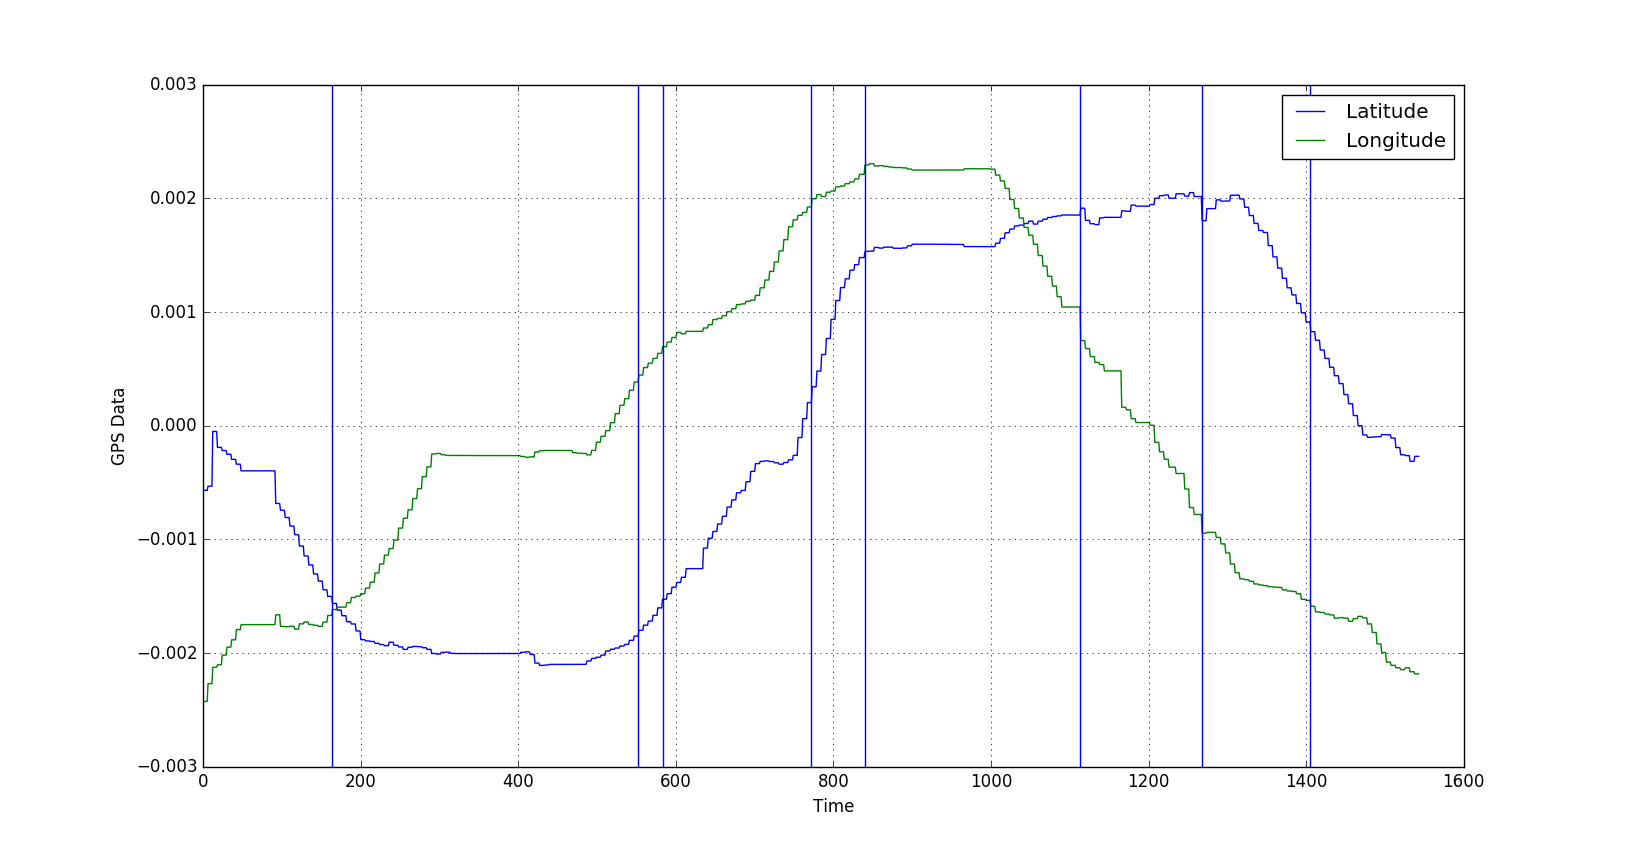
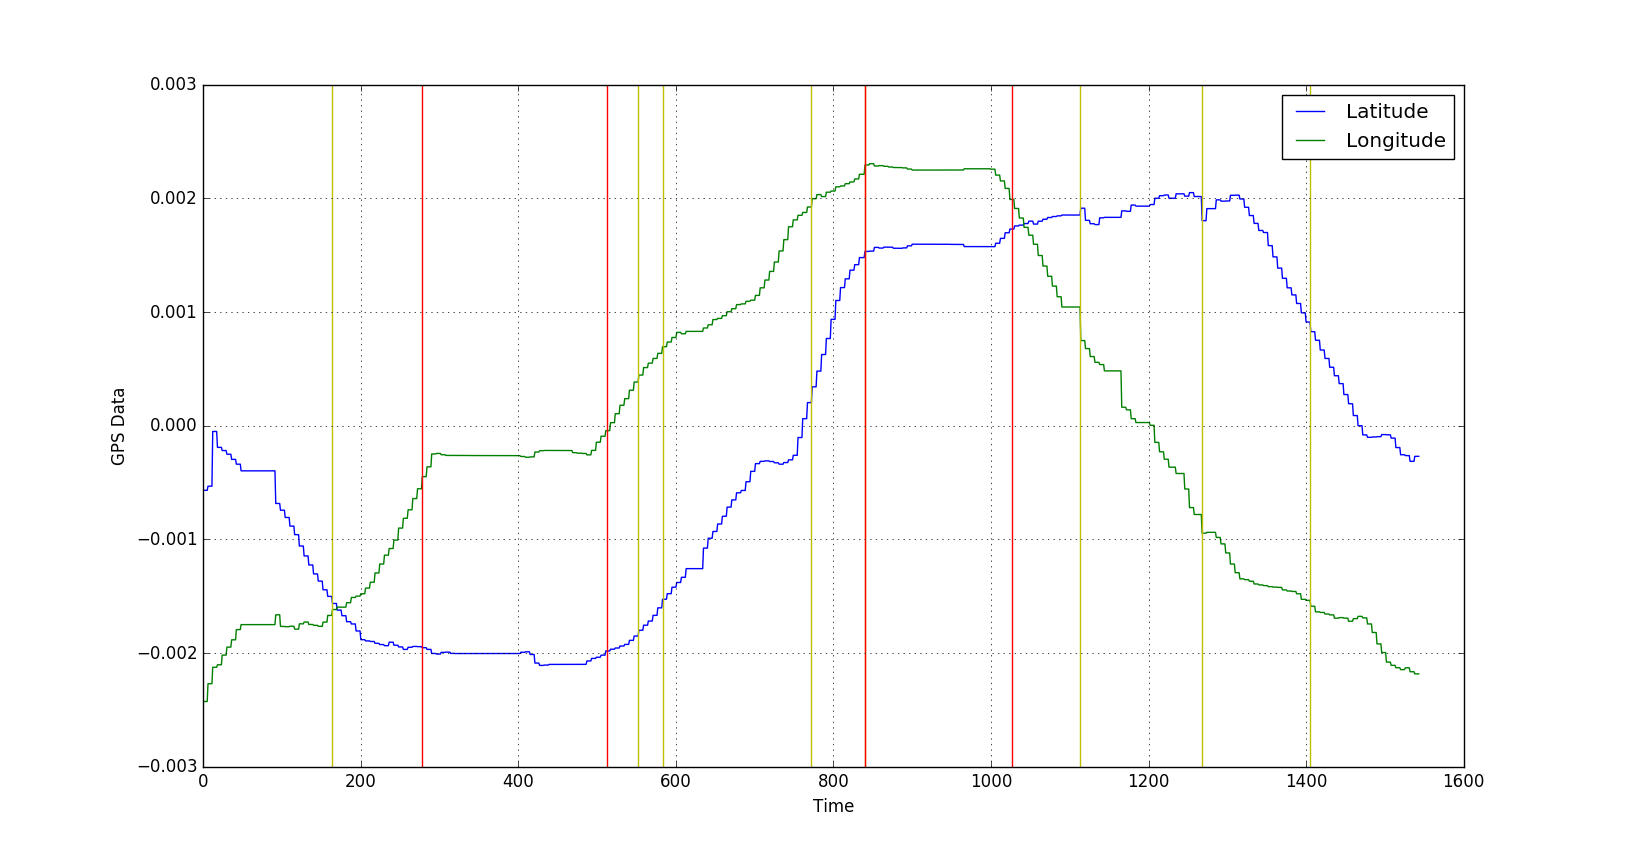
Identify GPS stationary location accurately. Yellow is lose limit. Red is hard limit.

Changed region(s): [[0.369, 0.1221, 0.3998, 0.885]]

diff --git a/Code/findStationary.py b/Code/findStationary.py
@@ -2,25 +2,27 @@ import numpy as np
 import sys
 import matplotlib.pyplot as plt
 
-threshold = 0.00005
+gpsValThreshold = 0.00005
+stationaryTimeThreshold = 100
 stationaryLimit = []
+secondFilterFlag = 0
+secondFilterList = []
+stdThreshold = 0.00005
 
 def identify_stationary(newMat):
 	stationaryFlag = 0
 	for time in range(0,newMat.shape[0]-1):	
 		print (newMat[time][1] - newMat[time+1][1])
 		print (newMat[time][2] - newMat[time+1][2])
-		print abs(threshold)
-		if (abs(newMat[time][1] - newMat[time+1][1]) <= abs(threshold)) and (abs(newMat[time][2] - newMat[time+1][2]) <= abs(threshold)) and stationaryFlag == 0:
+		print abs(gpsValThreshold)
+		if (abs(newMat[time][1] - newMat[time+1][1]) <= abs(gpsValThreshold)) and (abs(newMat[time][2] - newMat[time+1][2]) <= abs(gpsValThreshold)) and stationaryFlag == 0:
 			stationaryLimit.append(time)
 			stationaryFlag = 1
-		if (abs(newMat[time][1] - newMat[time+1][1]) > abs(threshold)) and (abs(newMat[time][2] - newMat[time+1][2]) > abs(threshold)) and stationaryFlag == 1:
+		if (abs(newMat[time][1] - newMat[time+1][1]) > abs(gpsValThreshold)) and (abs(newMat[time][2] - newMat[time+1][2]) > abs(gpsValThreshold)) and stationaryFlag == 1:
 			stationaryLimit.append(time)
 			stationaryFlag = 0
 
 if __name__ == "__main__":
-	
-	#Get File
 	gpsIn = sys.argv[1]
 	gpsData = np.genfromtxt(gpsIn, delimiter=',')
 	firstTimeStamp = int(gpsData[0][0])
@@ -31,8 +33,6 @@ if __name__ == "__main__":
 			newMat[newMatIter - firstTimeStamp] = gpsData[i]
 			newMat[newMatIter - firstTimeStamp][0] = newMatIter
 	np.savetxt('gps_change.csv',newMat,delimiter=',')
-	#newMat[:,1] = (newMat[:,1] - np.mean(newMat[:,1]))/(newMat[newMat.shape[0]-1,1]-newMat[0,1])
-	#newMat[:,2] = (newMat[:,2] - np.mean(newMat[:,2]))/(newMat[newMat.shape[0]-1,2]-newMat[0,2])
 	newMat[:,1] = (newMat[:,1] - np.mean(newMat[:,1]))
 	newMat[:,2] = (newMat[:,2] - np.mean(newMat[:,2]))
 	identify_stationary(newMat)
@@ -43,11 +43,45 @@ if __name__ == "__main__":
 	print stationaryLimit
 	realStationary = []
 	for i in range(0,len(stationaryLimit)-1,2):
-		if(stationaryLimit[i+1] - stationaryLimit[i] > 100):
+		if(stationaryLimit[i+1] - stationaryLimit[i] > stationaryTimeThreshold):
 			realStationary.append(stationaryLimit[i])
 			realStationary.append(stationaryLimit[i+1])
+	print realStationary
+	for secondFilterIter in range(0,len(realStationary),2):
+		print secondFilterIter
+		frameAdaptive = 0
+		for frameIter in range(realStationary[secondFilterIter], realStationary[secondFilterIter+1]):
+			print frameIter
+			if realStationary[secondFilterIter+1] - frameIter < stationaryTimeThreshold:
+				if secondFilterFlag == 1:
+					secondFilterList.append(frameIter+stationaryTimeThreshold)
+					secondFilterFlag = 0
+				break
+			else:
+				idx = frameIter - frameAdaptive
+				print frameAdaptive
+				print 'blah'
+				latStd = np.std(newMat[ idx : frameIter+stationaryTimeThreshold,1])
+				longStd = np.std(newMat[idx : frameIter+stationaryTimeThreshold,2])
+				if latStd < stdThreshold and longStd < stdThreshold:
+					if secondFilterFlag == 0:
+						secondFilterList.append(frameIter)
+						secondFilterFlag = 1
+						frameAdaptive = 0
+					else:
+						frameAdaptive += 1
+				else:
+					if secondFilterFlag == 1:
+						secondFilterList.append(frameIter+stationaryTimeThreshold)
+						secondFilterFlag = 0
+						frameAdaptive = 0
+						break
+	print secondFilterList
+	print realStationary
 	for xc in realStationary:
-		plt.axvline(x=xc)
+		plt.axvline(x=xc,color='y')
+	for yc in secondFilterList:
+		plt.axvline(x=yc,color='r')
 	plt.xlabel('Time')
 	plt.ylabel('GPS Data')
 	plt.grid()
